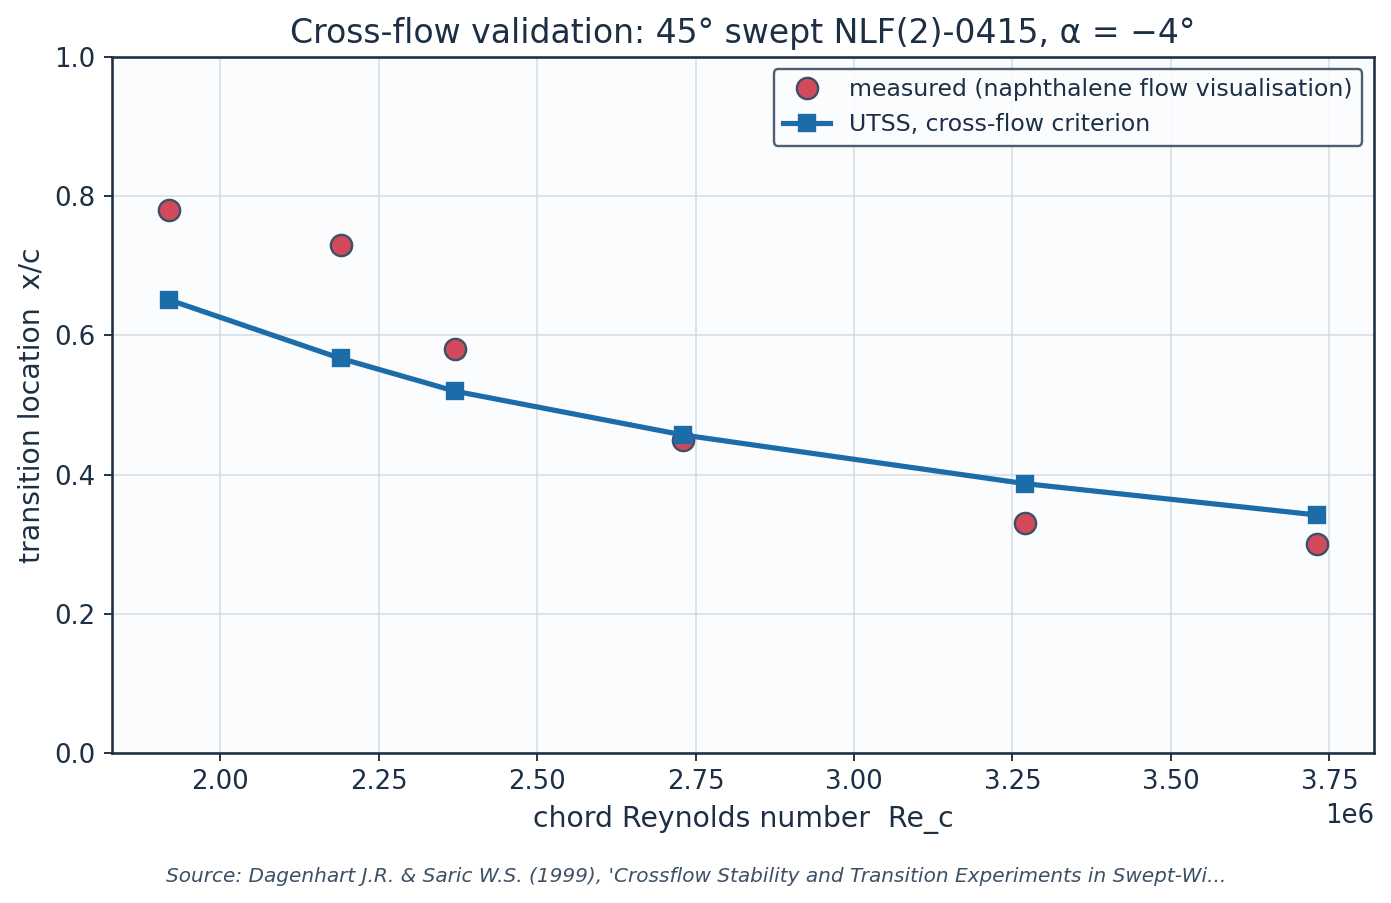
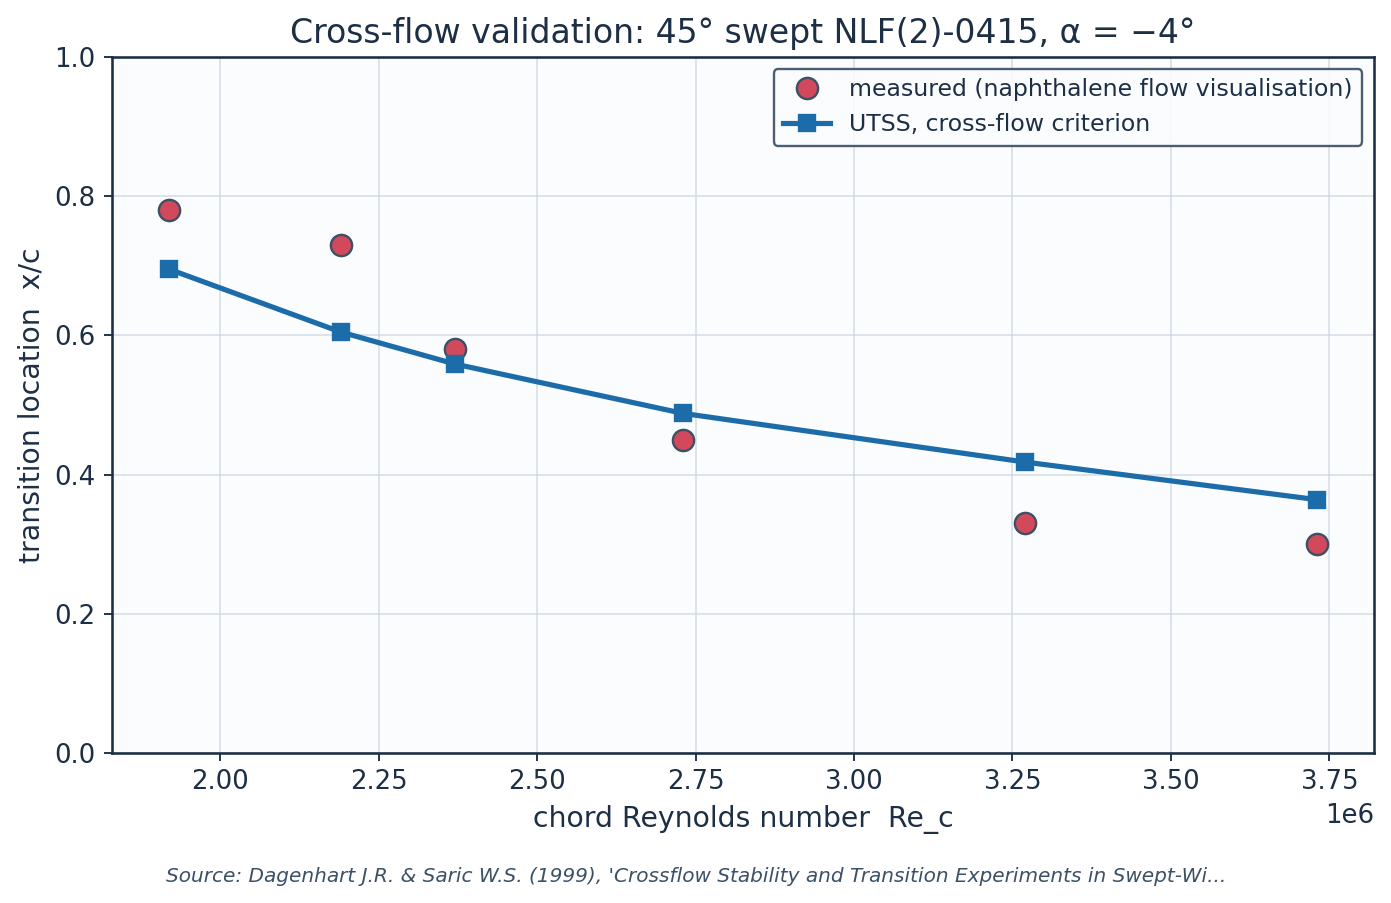
Close the cross-flow branch with an amplification integral, and report what six formulations could not reconcile
A stationary cross-flow vortex has to grow before it breaks down, so the
station at which the layer first becomes locally unstable is not the station at
which it transitions; on the NACA 64(2)A015 the two differ by a factor of two.
The branch now accumulates amplification wherever Re_theta2 exceeds C1, at the
rate the tabulated family returns for an inflectional profile - 0.0435, the
same value the bubble closure uses, a cross-flow profile being inflectional for
the same reason a separated one is - and transitions at the same N_crit every
other branch uses.  The integral form therefore adds no constant to the one the
criterion already carried, and it improves the two swept-wing experiments taken
together from 34.4 to 29.5 per cent mean error: 14.7 on the calibration set and
51.7 on the independent one, against 13.7 and 55.1.

It does not reconcile them, and neither does anything else tried.  Six
formulations have now been put to these two datasets: the algebraic surrogate
at its calibrated value and at a jointly chosen one; the Reynolds number
transformed into the plane normal to the leading edge, which is worse and
raises the spread across the two facilities from 21 to 30 per cent; the exact
Falkner-Skan-Cooke factor at two calibrations, which reproduces the measured
Reynolds-independence above breakaway and reaches 20.8 per cent on the
independent set but takes the calibration set to 58.7; and the amplification
[…]

Changed region(s): [[0.0927, 0.2791, 0.9583, 0.5891]]

diff --git a/solver/utss_solver.py b/solver/utss_solver.py
@@ -87,6 +87,19 @@ CAL = dict(
                         # physically meaningful indicator; lam is a local
                         # quantity and its threshold belongs to the
                         # one-parameter method it was fitted for.
+    cf_amp    = True,   # close the cross-flow branch with an amplification
+                        # integral rather than a local threshold.  A stationary
+                        # cross-flow vortex has to grow before it breaks down;
+                        # a criterion that fires the instant a local Reynolds
+                        # number is exceeded places transition at the first
+                        # station that is unstable, not at the first that has
+                        # amplified enough, and the two differ by a factor of
+                        # two on the wing of Sec. IV.C.  The rate is the
+                        # computed shear-layer value of Sec. II.C.4 - a
+                        # cross-flow profile is inflectional, like a separated
+                        # one - and the threshold is the same N_crit every
+                        # other branch uses, so the integral form adds no
+                        # constant to the one the criterion already had.
     cf_exact  = False,  # form the cross-flow Reynolds number from the exact
                         # Falkner-Skan-Cooke factor K(lambda) instead of the
                         # constant surrogate k_cf
@@ -615,6 +628,8 @@ def march_bl(s, Ue, nu, Tu_pct=0.2, sweep_deg=0.0, Ue_inf=1.0,
     use_db = bool(cal.get("use_os_db", True))
     bubble_on = bool(cal.get("bubble", True))
     i_sep = None; s_sep = 0.0; th_sep = 0.0; H_sep = 0.0; th_b = 0.0; n_bub = 0.0
+    n_cf = 0.0
+    sig_cf = float(_stab.sigma_curve(_stab.H_REVERSE, 400.0).max())
     omegas = np.array([]); amp = np.array([])
     if use_db:
         om_lo, om_hi = _stab.omega_grid_bounds()
@@ -796,7 +811,17 @@ def march_bl(s, Ue, nu, Tu_pct=0.2, sweep_deg=0.0, Ue_inf=1.0,
         #     which reduces the stability of an inflectional three-dimensional
         #     profile to a single Reynolds number, and not the surrogate for
         #     the cross-flow thickness.  See Sec. VI.
-        if sweep_deg > 1.0:
+        if sweep_deg > 1.0 and cal.get("cf_amp", True):
+            L_r = np.radians(sweep_deg)
+            if cal.get("cf_exact", False):
+                fac = np.sin(L_r)*np.cos(L_r)*_stab.crossflow_factor(lam[i])
+                Re_th2 = Reth[i]*fac
+            else:
+                Re_th2 = _re_theta2(Reth[i], sweep_deg, cal["CF_ratio"])
+            if Re_th2 >= cal["CF_C1"]*cal["A_CF"] and i > 0:
+                n_cf += (sig_cf/max(theta[i], 1e-12))*(s[i] - s[i-1])
+            Rcf = 1e9
+        elif sweep_deg > 1.0:
             if cal.get("cf_exact", False):
                 L_r = np.radians(sweep_deg)
                 fac = (np.sin(L_r)*np.cos(L_r)
@@ -819,10 +844,14 @@ def march_bl(s, Ue, nu, Tu_pct=0.2, sweep_deg=0.0, Ue_inf=1.0,
         Rt = 1e9 if in_bubble else min(Rbp, Rsep, Rcf)
         Re_th_t[i] = Rt
         trig_ts = bool(ts_live and n_amp >= N_target)
-        if (trig_ts or bub_trig or Reth[i] >= Rt) and i_tr is None and i > 1:
+        trig_cf = bool(sweep_deg > 1.0 and cal.get("cf_amp", True)
+                       and n_cf >= _n_crit(Tu_eff[i], cal.get("N_floor", 0.5)))
+        if (trig_ts or bub_trig or trig_cf or Reth[i] >= Rt) and i_tr is None and i > 1:
             i_tr = i
             if in_bubble:
                 mech = "separation"
+            elif trig_cf and not trig_ts:
+                mech = "crossflow"
             elif trig_ts and Reth[i] < Rt:
                 mech = "TS-natural"
             else:

diff --git a/gen_mesh_setup.py b/gen_mesh_setup.py
@@ -204,7 +204,10 @@ def setup_tables():
         ("N_floor",CAL["N_floor"],"lower clamp on N_crit at high Tu","clamp; bypass governs there"),
         ("Tu_TS_max",CAL["Tu_TS_max"],"upper Tu for the attached-flow TS branch","complement of the bypass gate"),
         ("C_len",CAL["C_len"],"Narasimha transition-length scale","Dhawan-Narasimha (1958)"),
-        ("CF_C1",CAL["CF_C1"],"crossflow critical Re_theta2","Arnal et al. C1 criterion; does not transfer between facilities"),
+        ("CF_C1",CAL["CF_C1"],"crossflow critical Re_theta2",
+         "Arnal et al.; facility-dependent: 150 fits Dagenhart (14.7%), 200 fits Boltz (18.4%)"),
+        ("cf_amp",CAL["cf_amp"],"crossflow closed by an amplification integral, not a local threshold",
+         "rate computed (0.0435); threshold is the same N_crit; adds no constant"),
         ("CF_ratio",CAL["CF_ratio"],"theta2/theta surrogate for crossflow","FITTED on Dagenhart & Saric; independent check in Sec. IV.C"),
         ("sigma_sep","from table","shear-layer amplification rate in a bubble","computed on the reverse-flow Falkner-Skan branch; 0.0435, not fitted"),
         ("two_eq",CAL["two_eq"],"two-equation laminar march (momentum + kinetic energy)","closures from the Falkner-Skan family; no fitted constant"),

diff --git a/README.md b/README.md
@@ -82,16 +82,22 @@ Ablations, everything else held fixed (all 86 aerofoil points):
 | Drela–Giles envelope | −6.6 % | 0.041 c | 52/86 |
 | **full model** | **+5.6 %** | **0.037 c** | **53/86** |
 
-Swept wings — cross-flow: 13.7 % mean error on the 45° NLF(2)-0415 of
-Dagenhart & Saric (on which the one cross-flow coefficient is set), 55.1 % on
-the independent NACA 64(2)A015 of Boltz et al. digitised from NACA TN D-338 (55.1 %).
-Marching each of the ten conditions laminar to its **measured** transition
-station and evaluating the cross-flow criterion there gives a coefficient of
-variation of **21 %** across both facilities — six sweep angles, a 14× range of
-chord Reynolds number, two sections and two eras.  The criterion therefore
-transfers in the quantity it is posed on; the transition *location* is an
-ill-conditioned function of it, which is why 21 % in the criterion becomes
-30–55 % in location.  No single C1 improves the combined result.
+Swept wings — cross-flow: **14.7 %** on the 45° NLF(2)-0415 of Dagenhart &
+Saric (on which the one cross-flow coefficient is set), **51.7 %** on the
+independent NACA 64(2)A015 of Boltz et al. digitised from NACA TN D-338.  The
+branch is closed by an **amplification integral** rather than a local threshold
+— a stationary cross-flow vortex must grow before it breaks down — using the
+computed rate 0.0435 and the same N_crit as every other branch, so it adds no
+constant.
+Six formulations were tried against the two swept-wing experiments and none
+reconciles them; every one that helps the independent set costs more on the
+calibration set.  The two require critical values differing by about half, and
+that difference is in none of the mean-flow quantities the method computes —
+which the exact Falkner–Skan–Cooke similarity solution establishes.  It is a
+**receptivity** difference: stationary cross-flow vortices are seeded by
+leading-edge roughness, and neither report documents the surface finish.  The
+branch is therefore reported with a band: **C1 = 150** fits Dagenhart (14.7 %),
+**C1 = 200** fits Boltz (18.4 %).
 
 Sources recorded in `06_validation/sources_and_references.csv`.
 
